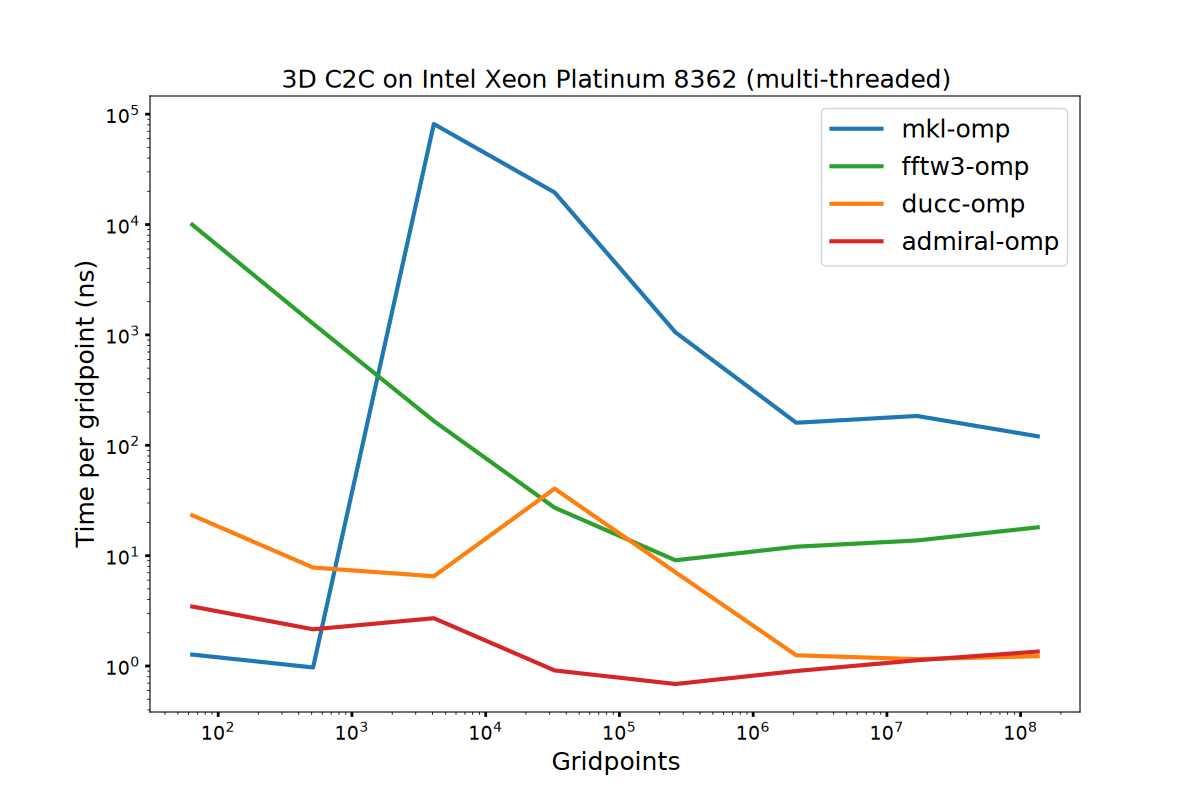
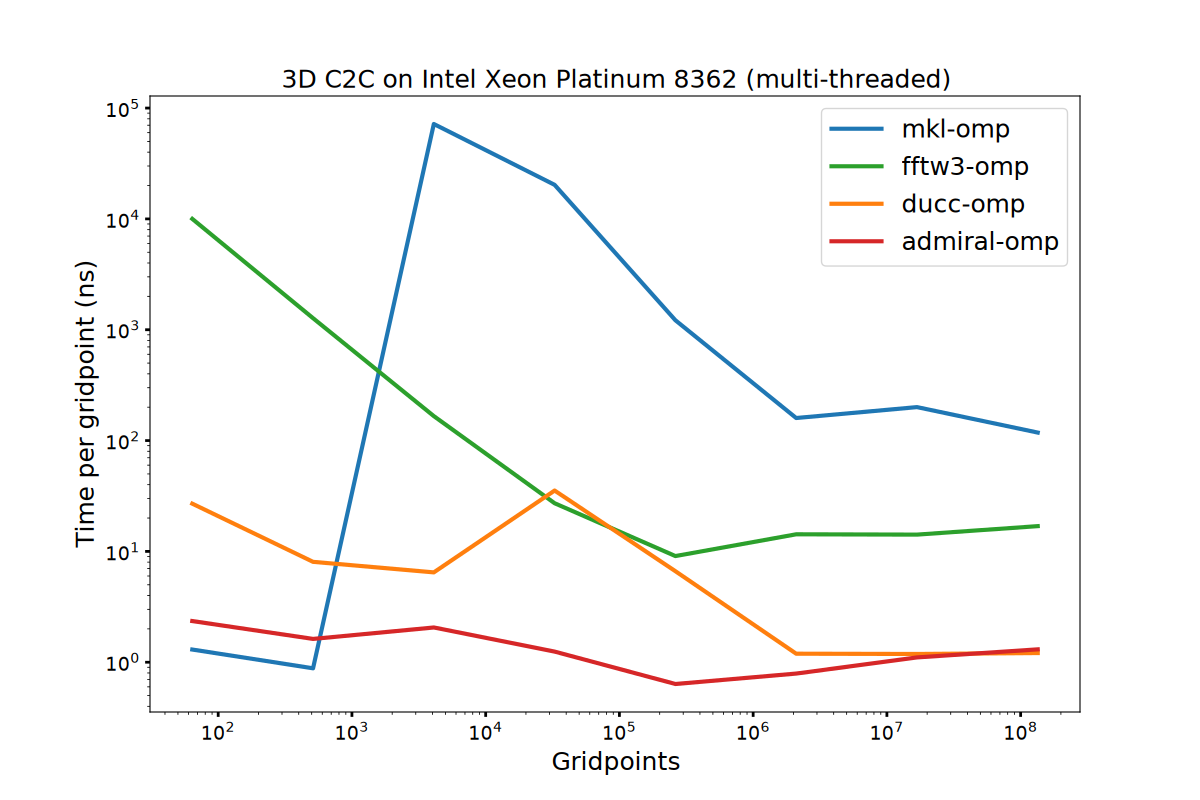
bench: bump admiral to a799b6b, refresh standings charts
Assisted-by: Claude <noreply@anthropic.com>

diff --git a/README.md b/README.md
@@ -3,7 +3,7 @@ FFTW3 run in FFTW_MEASURE mode. FFTW_PATIENT is death, and I wanted to give it a
 
 | MKL      | FFTW   | KISS             | Pocket   | DUCC              | Sleef         | Admiral |
 |----------|--------|------------------|----------|-------------------|---------------|---------|
-| 2026.0.0 | 3.3.11 | v131-101-ge5e3fac| 81d171a6 | 0.41.1-72-g9919ab6| 3.9.0-41-g7623d6c | e49684b |
+| 2026.0.0 | 3.3.11 | v131-101-ge5e3fac| 81d171a6 | 0.41.1-72-g9919ab6| 3.9.0-41-g7623d6c | a799b6b |
 
 FFTW3, MKL and gcc come from the cluster's Lmod modules (`gcc/14.3.0 fftw/3.3.11 intel-oneapi-mkl/2026.0.0`); the module's FFTW3 carries the
 OpenMP threading library, which `fftw3_omp_bench` links. Machines: Intel Xeon Platinum 8362 (icelake), AMD EPYC 7742 (rome), AMD EPYC 9474F (genoa).
